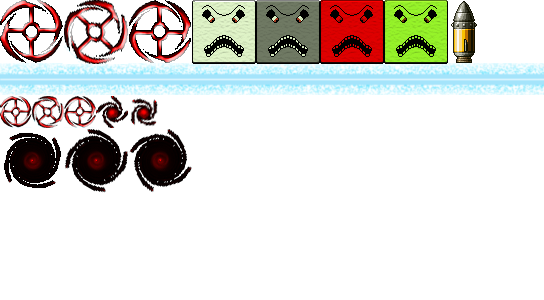
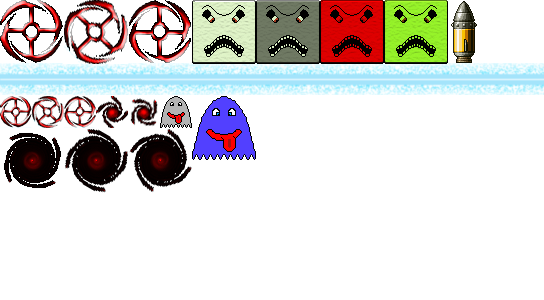
Boss reworked - New skins

Changed region(s): [[0.2812, 0.3, 0.4688, 0.54]]

diff --git a/app/js/app.js b/app/js/app.js
@@ -2825,8 +2825,8 @@
         ],
         homingman: [
           {
-            x: 384,
-            y: 0,
+            x: 192,
+            y: 96,
             width: 64,
             height: 64
           }
@@ -2847,6 +2847,14 @@
             height: 32
           }, {
             x: 128,
+            y: 96,
+            width: 32,
+            height: 32
+          }
+        ],
+        phantom: [
+          {
+            x: 160,
             y: 96,
             width: 32,
             height: 32
@@ -3661,28 +3669,23 @@
       _ref = this.parts;
       for (_i = 0, _len = _ref.length; _i < _len; _i++) {
         part = _ref[_i];
-        if (part.target.skin.getAnimation() !== 'dead') {
-          ratioX = 0.60;
-          ratioY = 0.40;
-          speedX = this.attackSpeed * ratioX * frameTime + part.boostSpeed * frameTime;
-          speedY = this.attackSpeed * ratioY * frameTime + part.boostSpeed * frameTime;
-          tmp = part.boostSpeed - 0.002;
-          if (tmp <= 0) {
-            part.boostSpeed = 0;
-          } else {
-            part.boostSpeed = tmp;
-          }
-          tmp = part.shape.getX() + speedX;
-          if (tmp > part.target.shape.getX()) {
-            part.shape.setX(part.shape.getX() - speedX);
-          } else {
-            part.shape.setX(part.shape.getX() + speedX);
-          }
-          tmp = part.shape.getY() + speedY;
-          if (tmp < part.target.shape.getY() + part.target.shape.getHeight() / 2) {
-            part.shape.setY(part.shape.getY() + speedY);
-          }
+        ratioX = part.ratioX;
+        ratioY = 1;
+        speedX = this.attackSpeed * ratioX * frameTime;
+        speedY = this.attackSpeed * ratioY * frameTime;
+        tmp = part.shape.getX() + speedX;
+        if (tmp > part.target.shape.getX()) {
+          part.shape.setX(part.shape.getX() - speedX);
         } else {
+          part.shape.setX(part.shape.getX() + speedX);
+        }
+        part.shape.setY(part.shape.getY() + speedY);
+        if (part.ratioX - 0.015 > 0.1) {
+          part.ratioX -= 0.015;
+        } else {
+          part.ratioX = 0.1;
+        }
+        if (part.shape.getY() > arena.y - levelManager.levelHeight) {
           part.reset();
         }
       }
@@ -3710,10 +3713,10 @@
 
     function HomingManPart(x, y, life, target) {
       var fn, self;
-      HomingManPart.__super__.constructor.call(this, 'spark', x, y, 32, 32);
+      HomingManPart.__super__.constructor.call(this, 'phantom', x, y, 32, 32);
       this.target = target;
-      this.boostSpeed = 0.2;
       this.alive = true;
+      this.ratioX = 1;
       self = this;
       fn = function() {
         return self.reset();

diff --git a/server/server.js b/server/server.js
@@ -1054,11 +1054,12 @@
 
     HomingMan.prototype.getPattern = function() {
       var attackSpeed, attacks, interval, options, speed;
+      levelManager.level = 8;
       speed = Math.round((0.5 + 0.03 * levelManager.level) * 100) / 100;
-      attackSpeed = Math.round((0.05 + 0.005 * (levelManager.level - 1)) * 100) / 100;
-      interval = 8000;
+      attackSpeed = Math.round((0.25 + 0.001 * (levelManager.level - 1)) * 100) / 100;
+      interval = 3000;
       options = [speed, attackSpeed, interval];
-      attacks = 2;
+      attacks = 4;
       return [options, attacks];
     };
 
